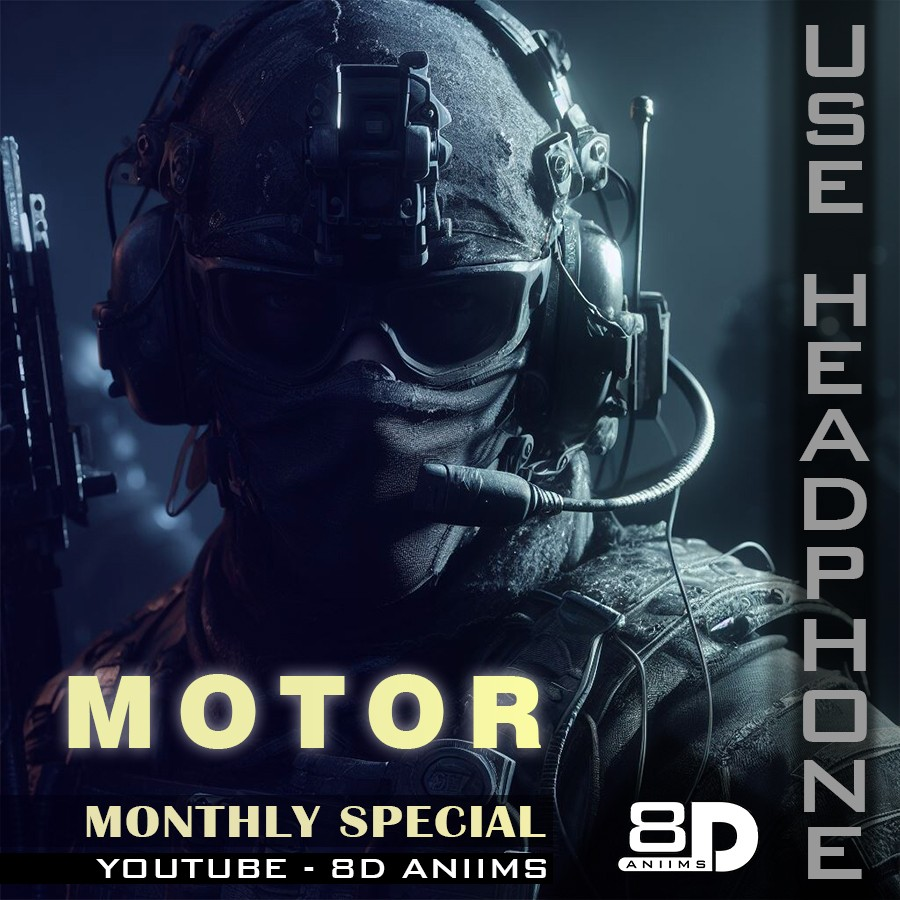
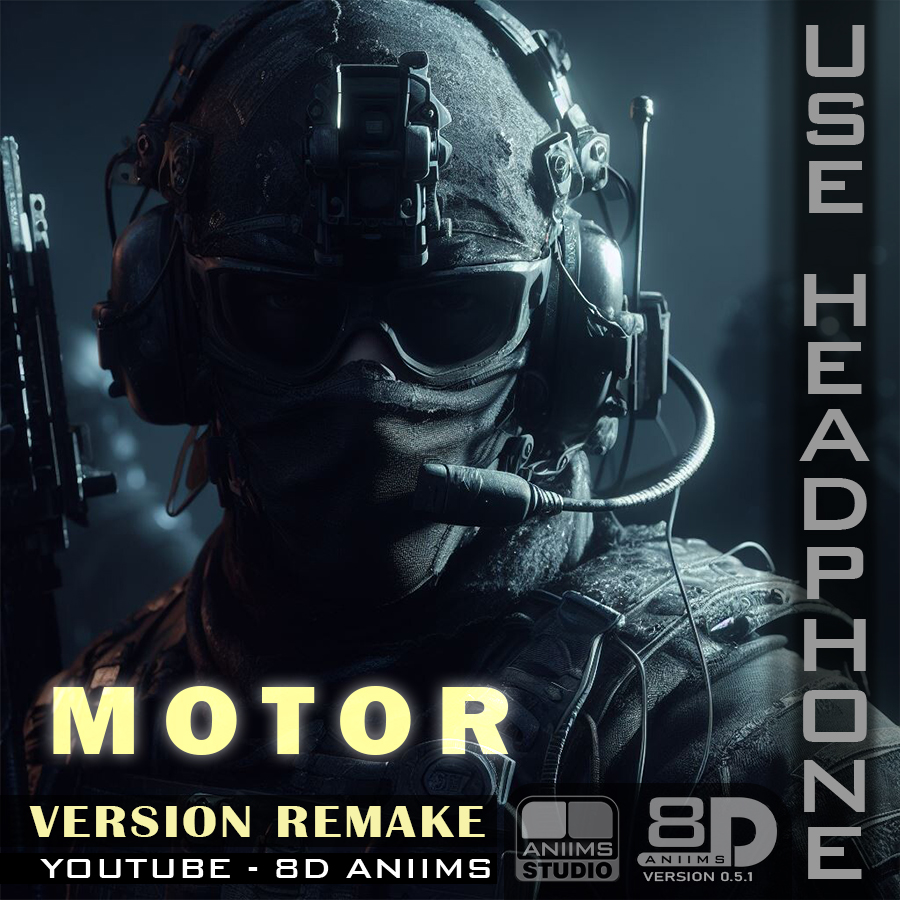
update 67
album released

Changed region(s): [[0.0311, 0.7156, 0.8711, 1.0]]

diff --git a/author_1 page.html b/author_1 page.html
@@ -127,6 +127,49 @@ https://templatemo.com/tm-577-liberty-market
                 <span class="author">
                   <img src="assets/images/author.jpg" alt="" style="max-width: 50px; border-radius: 50%;">
                 </span>
+                <img src="assets/images/poto-127.jpg" alt="" style="border-radius: 20px;">
+                <h4>MONTHLY SPECIAL</h4>
+              </div>
+              <div class="col-lg-12">
+                <div class="line-dec"></div>
+                <div class="row">
+                  <div class="col-6">
+                    <span>Frequency: <br> <strong>44100 Hz</strong></span>
+                  </div>
+                  <div class="col-6">
+                    <span>Bitrate: <br> <strong>192 kbit/s</strong></span><br><br>
+                  </div>
+          <div class="col-6">
+                    <span>Album size: <br> <strong>4.05 MB</strong></span>
+                  </div>
+                  <div class="col-6">
+                    <span>files: <br> <strong>02</strong></span><br><br>
+                  </div>
+                  <div class="col-6">
+                    <span>8D Version: <br> <strong>0.3</strong></span><br><br>
+                  </div>
+                </div>
+              </div>
+        <form>
+<font face="arial" color="white">
+<input type="radio" name="like"> Like<br>
+  <input type="radio" name="like"> Unlike<br><br></font>
+</form>
+              <div class="col-lg-12">
+                <div class="main-button">
+                  <a href="https://1drv.ms/f/s!Au7SSTfWQxkVg3nhRYW-P48o6UrF?e=QiiYNa">Download This Album</a>
+                </div>
+              </div>
+            </div>
+          </div>
+          </div>
+          <div class="col-lg-3 col-md-6">
+          <div class="item">
+            <div class="row">
+              <div class="col-lg-12">
+                <span class="author">
+                  <img src="assets/images/author.jpg" alt="" style="max-width: 50px; border-radius: 50%;">
+                </span>
                 <img src="assets/images/poto-126.jpg" alt="" style="border-radius: 20px;">
                 <h4>MONTHLY SPECIAL</h4>
               </div>
@@ -2140,49 +2183,8 @@ https://templatemo.com/tm-577-liberty-market
               </div>
             </div>
           </div>
-        </div><div class="col-lg-3 col-md-6">
-          <div class="item">
-            <div class="row">
-              <div class="col-lg-12">
-                <span class="author">
-                  <img src="assets/images/author.jpg" alt="" style="max-width: 50px; border-radius: 50%;">
-                </span>
-                <img src="assets/images/poto-78.jpg" alt="" style="border-radius: 20px;">
-                <h4>Album no - 60</h4>
-              </div>
-              <div class="col-lg-12">
-                <div class="line-dec"></div>
-                <div class="row">
-                  <div class="col-6">
-                    <span>Frequency: <br> <strong>44100 Hz</strong></span>
-                  </div>
-                  <div class="col-6">
-                    <span>Bitrate: <br> <strong>192 kbit/s</strong></span><br><br>
-                  </div>
-          <div class="col-6">
-                    <span>Album size: <br> <strong>41.6 MB</strong></span>
-                  </div>
-                  <div class="col-6">
-                    <span>files: <br> <strong>11</strong></span><br><br>
-                  </div>
-                  <div class="col-6">
-                    <span>8D Version: <br> <strong>0.3</strong></span><br><br>
-                  </div>
-                </div>
-              </div>
-        <form>
-<font face="arial" color="white">
-<input type="radio" name="like"> Like<br>
-  <input type="radio" name="like"> Unlike<br><br></font>
-</form>
-              <div class="col-lg-12">
-                <div class="main-button">
-                  <a href="https://1drv.ms/f/s!Agt2OPWimw7YiAEscUEcgIkeNKmO?e=GL7CjP">Download This Album</a>
-                </div>
-              </div>
-            </div>
-          </div>
         </div>
+        
       <center>&nbsp;<<&nbsp;&nbsp;<font size="4"><a href="author.html">1</a>&nbsp;I&nbsp;
   <a href="author_1 page.html">2</a>&nbsp;I&nbsp;
   <a href="author_2 page.html">3</a>&nbsp;I&nbsp;

diff --git a/author.html b/author.html
@@ -121,6 +121,49 @@
                 <span class="author">
                   <img src="assets/images/author.jpg" alt="" style="max-width: 50px; border-radius: 50%;">
                 </span>
+                <img src="assets/images/poto-53.jpg" alt="" style="border-radius: 20px;">
+                <h4>VERSION REMAKE</h4>
+              </div>
+              <div class="col-lg-12">
+                <div class="line-dec"></div>
+                <div class="row">
+                  <div class="col-6">
+                    <span>Frequency: <br> <strong>44100 Hz</strong></span>
+                  </div>
+                  <div class="col-6">
+                    <span>Bitrate: <br> <strong>192 kbit/s</strong></span><br><br>
+                  </div>
+          <div class="col-6">
+                    <span>Album size: <br> <strong>3.61 MB</strong></span>
+                  </div>
+                  <div class="col-6">
+                    <span>files: <br> <strong>02</strong></span><br><br>
+                  </div>
+                  <div class="col-6">
+                    <span>8D Version: <br> <strong>0.4.1</strong></span><br><br>
+                  </div>
+                </div>
+              </div>
+        <form>
+<font face="arial" color="white">
+<input type="radio" name="like"> Like<br>
+  <input type="radio" name="like"> Unlike<br><br></font>
+</form>
+              <div class="col-lg-12">
+                <div class="main-button">
+                  <a href="https://1drv.ms/f/c/151943d63749d2ee/Eu7SSTfWQxkggBXZAQAAAAABr37By563IBKpKeCHUFJgSQ?e=eL2mtD">Download This Album</a>
+                </div>
+              </div>
+            </div>
+          </div>
+          </div>
+        <div class="col-lg-3 col-md-6">
+          <div class="item">
+            <div class="row">
+              <div class="col-lg-12">
+                <span class="author">
+                  <img src="assets/images/author.jpg" alt="" style="max-width: 50px; border-radius: 50%;">
+                </span>
                 <img src="assets/images/poto-172.jpg" alt="" style="border-radius: 20px;">
                 <h4>MONTHLY SPECIAL</h4>
               </div>
@@ -2135,49 +2178,7 @@
             </div>
           </div>
           </div>
-          <div class="col-lg-3 col-md-6">
-          <div class="item">
-            <div class="row">
-              <div class="col-lg-12">
-                <span class="author">
-                  <img src="assets/images/author.jpg" alt="" style="max-width: 50px; border-radius: 50%;">
-                </span>
-                <img src="assets/images/poto-127.jpg" alt="" style="border-radius: 20px;">
-                <h4>MONTHLY SPECIAL</h4>
-              </div>
-              <div class="col-lg-12">
-                <div class="line-dec"></div>
-                <div class="row">
-                  <div class="col-6">
-                    <span>Frequency: <br> <strong>44100 Hz</strong></span>
-                  </div>
-                  <div class="col-6">
-                    <span>Bitrate: <br> <strong>192 kbit/s</strong></span><br><br>
-                  </div>
-          <div class="col-6">
-                    <span>Album size: <br> <strong>4.05 MB</strong></span>
-                  </div>
-                  <div class="col-6">
-                    <span>files: <br> <strong>02</strong></span><br><br>
-                  </div>
-                  <div class="col-6">
-                    <span>8D Version: <br> <strong>0.3</strong></span><br><br>
-                  </div>
-                </div>
-              </div>
-        <form>
-<font face="arial" color="white">
-<input type="radio" name="like"> Like<br>
-  <input type="radio" name="like"> Unlike<br><br></font>
-</form>
-              <div class="col-lg-12">
-                <div class="main-button">
-                  <a href="https://1drv.ms/f/s!Au7SSTfWQxkVg3nhRYW-P48o6UrF?e=QiiYNa">Download This Album</a>
-                </div>
-              </div>
-            </div>
-          </div>
-          </div>
+          
 		  <center>&nbsp;<<&nbsp;&nbsp;<font size="4"><a href="author.html">1</a>&nbsp;I&nbsp;
   <a href="author_1 page.html">2</a>&nbsp;I&nbsp;
   <a href="author_2 page.html">3</a>&nbsp;I&nbsp;

diff --git a/author_2 page.html b/author_2 page.html
@@ -127,6 +127,49 @@ https://templatemo.com/tm-577-liberty-market
                 <span class="author">
                   <img src="assets/images/author.jpg" alt="" style="max-width: 50px; border-radius: 50%;">
                 </span>
+                <img src="assets/images/poto-78.jpg" alt="" style="border-radius: 20px;">
+                <h4>Album no - 60</h4>
+              </div>
+              <div class="col-lg-12">
+                <div class="line-dec"></div>
+                <div class="row">
+                  <div class="col-6">
+                    <span>Frequency: <br> <strong>44100 Hz</strong></span>
+                  </div>
+                  <div class="col-6">
+                    <span>Bitrate: <br> <strong>192 kbit/s</strong></span><br><br>
+                  </div>
+          <div class="col-6">
+                    <span>Album size: <br> <strong>41.6 MB</strong></span>
+                  </div>
+                  <div class="col-6">
+                    <span>files: <br> <strong>11</strong></span><br><br>
+                  </div>
+                  <div class="col-6">
+                    <span>8D Version: <br> <strong>0.3</strong></span><br><br>
+                  </div>
+                </div>
+              </div>
+        <form>
+<font face="arial" color="white">
+<input type="radio" name="like"> Like<br>
+  <input type="radio" name="like"> Unlike<br><br></font>
+</form>
+              <div class="col-lg-12">
+                <div class="main-button">
+                  <a href="https://1drv.ms/f/s!Agt2OPWimw7YiAEscUEcgIkeNKmO?e=GL7CjP">Download This Album</a>
+                </div>
+              </div>
+            </div>
+          </div>
+        </div>
+      <div class="col-lg-3 col-md-6">
+          <div class="item">
+            <div class="row">
+              <div class="col-lg-12">
+                <span class="author">
+                  <img src="assets/images/author.jpg" alt="" style="max-width: 50px; border-radius: 50%;">
+                </span>
                 <img src="assets/images/poto-77.jpg" alt="" style="border-radius: 20px;">
                 <h4>Album no - 59</h4>
               </div>
@@ -1281,49 +1324,7 @@ https://templatemo.com/tm-577-liberty-market
             </div>
           </div>
         </div>
-      <div class="col-lg-3 col-md-6">
-          <div class="item">
-            <div class="row">
-              <div class="col-lg-12">
-                <span class="author">
-                  <img src="assets/images/author.jpg" alt="" style="max-width: 50px; border-radius: 50%;">
-                </span>
-                <img src="assets/images/poto-49.jpg" alt="" style="border-radius: 20px;">
-                <h4>MONTHLY SPECIAL</h4>
-              </div>
-              <div class="col-lg-12">
-                <div class="line-dec"></div>
-                <div class="row">
-                  <div class="col-6">
-                    <span>Frequency: <br> <strong>44100 Hz</strong></span>
-                  </div>
-                  <div class="col-6">
-                    <span>Bitrate: <br> <strong>192 kbit/s</strong></span><br><br>
-                  </div>
-          <div class="col-6">
-                    <span>Album size: <br> <strong>4.86 MB</strong></span>
-                  </div>
-                  <div class="col-6">
-                    <span>files: <br> <strong>02</strong></span><br><br>
-                  </div>
-                  <div class="col-6">
-                    <span>8D Version: <br> <strong>0.3</strong></span><br><br>
-                  </div>
-                </div>
-              </div>
-        <form>
-<font face="arial" color="white">
-<input type="radio" name="like"> Like<br>
-  <input type="radio" name="like"> Unlike<br><br></font>
-</form>
-              <div class="col-lg-12">
-                <div class="main-button">
-                  <a href="https://1drv.ms/f/s!Au7SSTfWQxkVhDIze3mndvThdjod?e=7G14CD">Download This Album</a>
-                </div>
-              </div>
-            </div>
-          </div>
-        </div>
+      
       <div class="col-lg-3 col-md-6">
           <div class="item">
             <div class="row">

diff --git a/index.html b/index.html
@@ -101,6 +101,9 @@ songs will be in 8D audio, slowed, reverb or normal.</p>
         <div class="col-lg-5 offset-lg-1">
           <div class="owl-banner owl-carousel">
             <div class="item">
+              <img src="assets/images/poto-53.jpg" alt="">
+            </div>
+            <div class="item">
               <img src="assets/images/poto-172.jpg" alt="">
             </div>
             <div class="item">
@@ -126,9 +129,6 @@ songs will be in 8D audio, slowed, reverb or normal.</p>
             </div>
             <div class="item">
               <img src="assets/images/poto-166.jpg" alt="">
-            </div>
-            <div class="item">
-              <img src="assets/images/poto-165.jpg" alt="">
             </div>
           </div>
         </div>
@@ -171,9 +171,9 @@ songs will be in 8D audio, slowed, reverb or normal.</p>
           <div class="header-text">
             <h6>VERSION REMAKE,</h6>
             <h2>COMING SOON!</h2>
-            <h6>WITH 0.4.1 8D VERSION...</h6>
+            <h6>WITH 0.5.1 BETA 8D VERSION...</h6>
             <font color="#FF957E" size="4">☠ WARNING!.. use "<u>headphone</u> 🎧" or "<u>handfree</u> 🎧".</font>
-            <p>⦿ Bellyache (Dream Chaos, Veronica Bravo  Cover) [8D ANIIMS].</p>
+            <p>⦿ F.O.O.L & THIRST - Motor [8D ANIIMS].</p>
             <div class="buttons">
               <div class="main-button">
                 <a href="author.html" target="_blank">Download our all 8D Audios</a>
@@ -185,7 +185,7 @@ songs will be in 8D audio, slowed, reverb or normal.</p>
         <div class="col-lg-5 offset-lg-1">
           <div class="owl-banner owl-carousel">
             <div class="item">
-              <img src="assets/images/poto-53.jpg" alt="">
+              <img src="assets/images/poto-49.jpg" alt="">
             </div>
           </div>
         </div>
